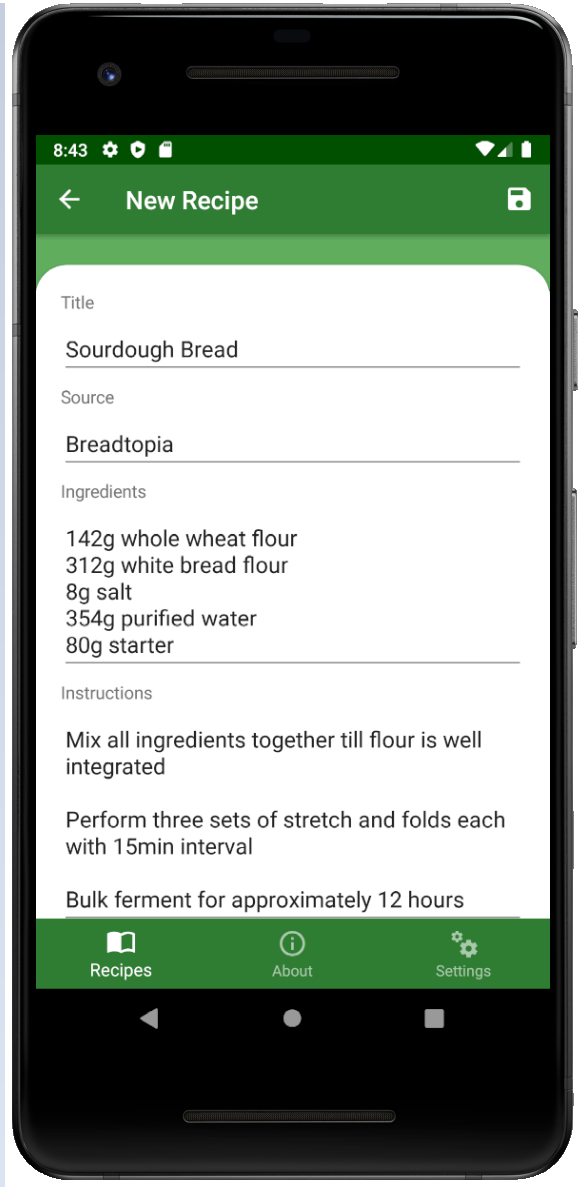
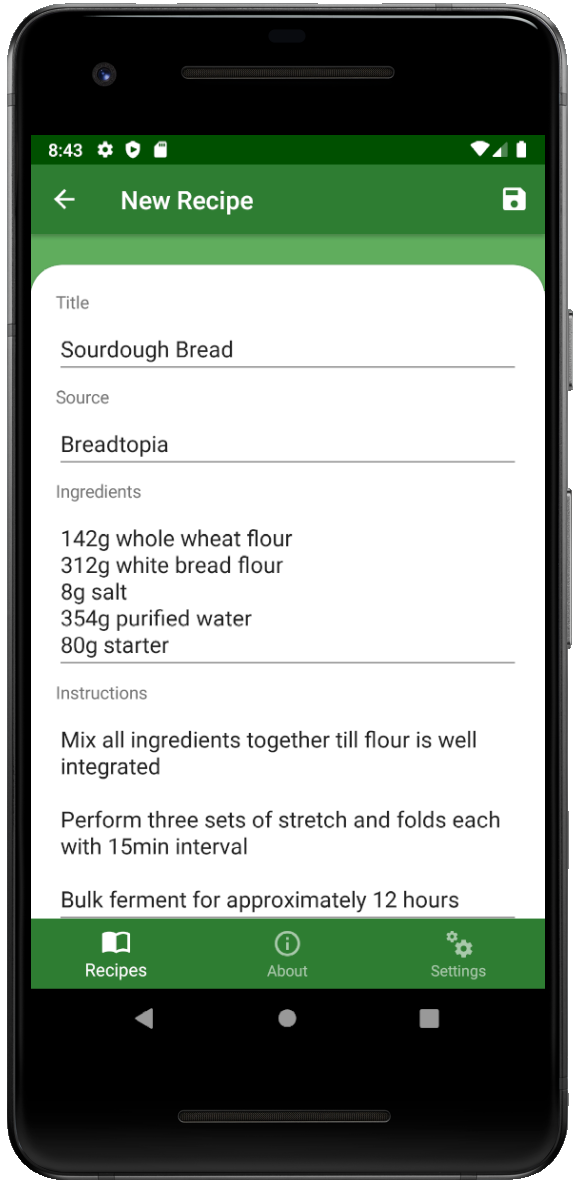
image resize test

diff --git a/_sass/layout.scss b/_sass/layout.scss
@@ -685,3 +685,7 @@ footer {
 .hidden {
 	display: none;
 }
+
+.doc-img {
+	width: 300px;
+}

diff --git a/_pages/documentation.md b/_pages/documentation.md
@@ -16,7 +16,7 @@ Creating or adjusting a recipe is as simple as it gets. Sharp Cooking's simplici
 4. Separate instructions by a new line. This is important so that Sharp Cooking will show each step in the timeline correctly
 5. When denoting time in instructions use the following syntax where x is a number: x min; x minute; x minutes; x hour; x hours; x day; x days
 
-![Android add new recipe](/assets/images/android_newrecipe.png =400x)
+![Android add new recipe](/assets/images/android_newrecipe.png){:class="doc-img"}
 
 ## View a recipe
 Sharp Cooking displays recipes using a timeline style which helps you know exactly when to start or continue cooking your recipe and breaks it down nicely in easy to consume bits. 
